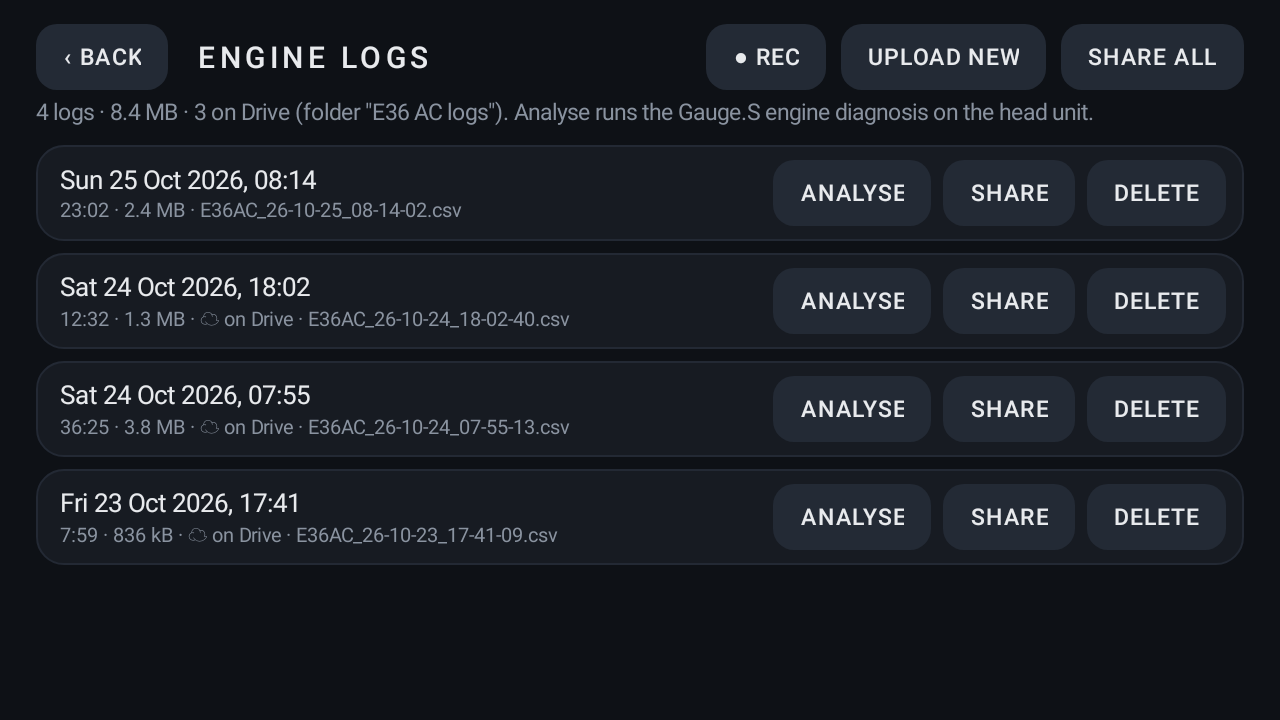
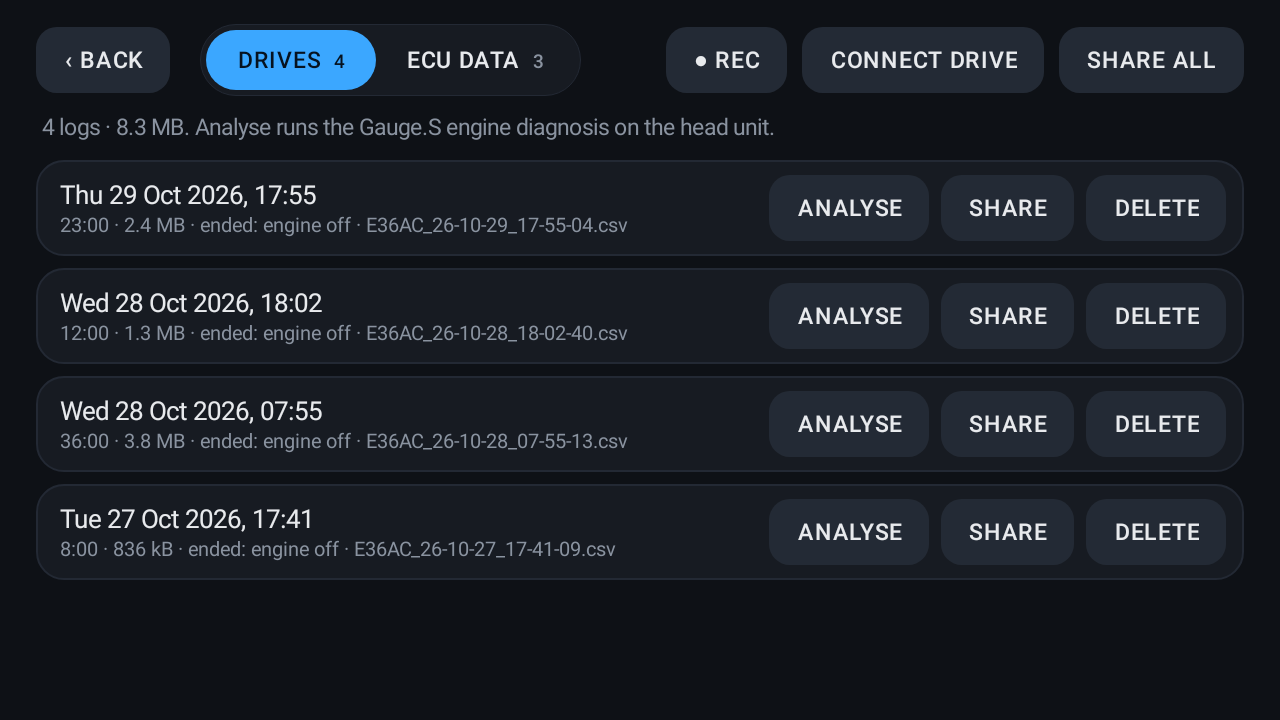
Site: an ECU data section with the new snapshot screens; logs screenshot with the tabs
A new section (and nav link) shows the visual snapshot page (fault cards,
adaptation bars, misfires per cylinder, status pills) and the ECU data list;
the logs section keeps a short pointer to it. The logs screenshot is redone
with the DRIVES / ECU DATA tabs. The setup section moves back to image-left
so the sections still alternate.

Claude-Session: https://claude.ai/code/session_01G59v9o1wYjXWDqe2xnvvVn

diff --git a/index.html b/index.html
@@ -138,6 +138,7 @@
             <a href="#climate">Climate</a>
             <a href="#gauges">Gauges</a>
             <a href="#logs">Logs</a>
+            <a href="#ecu">ECU data</a>
             <a href="#hardware">Module</a>
             <a href="#get">Get it</a>
         </nav>
@@ -239,7 +240,7 @@
 <section id="logs">
     <div class="wrap split">
         <div class="media stack">
-            <img class="shot" src="screenshots/logs.png" alt="Engine logs list with Analyse, Share and Delete, and Google Drive upload state" width="1280" height="720" loading="lazy">
+            <img class="shot" src="screenshots/logs.png" alt="Engine logs list on the Drives tab, with Analyse, Share and Delete for each drive" width="1280" height="720" loading="lazy">
             <img class="shot" src="screenshots/analysis.png" alt="Engine diagnosis of a log: a vacuum leak finding with evidence and suggested checks" width="1280" height="720" loading="lazy">
         </div>
         <div>
@@ -250,8 +251,7 @@
                 <li><strong>Auto-record:</strong> a log starts with the engine and ends 15 s after it stops. LOGS in the top bar shows <code>● REC</code> while recording.</li>
                 <li><strong>Gauge.S format:</strong> the columns use the names the Gauge.S log analyser understands, and the AC state comes along.</li>
                 <li><strong>Analyse:</strong> runs the Gauge.S engine diagnosis on the head unit, offline. You get likely faults ranked worst first with their evidence, suggested checks, and the time spent in each operating state.</li>
-                <li><strong>ECU data:</strong> <em>Fault codes → Read ECU data</em> saves, dated, what the MS43 has stored: the faults, the learned fuel adaptations for both banks, the learned idle air (in neutral, in gear, with the AC on), the octane adaptation, the misfire counters and rough running per cylinder, and whether it sees the AC request, the compressor relay, closed-loop fuelling and the purge valve. It asks the way INPA does, so it works on any MS43 software. The diagnosis uses the snapshot taken nearest each drive: misfires by cylinder, even before the ECU has stored a fault, codes that back up a finding, the idle air behind a rough idle, and a leak the ECU has already learned around.</li>
-                <li><strong>Fault details:</strong> <em>Fault codes → Load MS430DS0.prg</em> reads BMW's MS43 file from your own INPA install once. From then on each fault shows its type (short to ground, open circuit…) and the engine speed, load or temperature it was stored at, as INPA shows them. The app keeps only the fault tables from the file; BMW's file isn't included with the app.</li>
+                <li><strong>ECU data:</strong> the faults and learned values the ECU had stored, saved next to the drives (see <a href="#ecu">ECU data</a> below). The diagnosis uses the snapshot taken nearest each drive.</li>
                 <li><strong>Earlier drives:</strong> each analysis is kept as a few numbers, and later drives are compared with them, so idle trim creeping or idle speed changing shows up before any fixed limit trips.</li>
                 <li><strong>Google Drive:</strong> connect once, and finished logs upload to an “Bimmer Cockpit logs” folder. The app can only see the files it created.</li>
                 <li><strong>Share:</strong> send a log or a diagnosis report to any app.</li>
@@ -261,8 +261,32 @@
     </div>
 </section>
 
-<section id="setup">
+<section id="ecu">
     <div class="wrap split flip">
+        <div class="media stack">
+            <img class="shot" src="screenshots/ecu-data.png" alt="An ECU snapshot: stored faults as cards with the code, present now, how often seen, the fault type and the engine speed and load when stored; fuel adaptation bars per bank, learned idle air, octane adaptation, misfire counts per cylinder and on/off status pills" width="1280" height="1396" loading="lazy">
+            <img class="shot" src="screenshots/ecu-list.png" alt="The ECU data tab: saved snapshots with a red, amber or green dot, the number of faults and the DME part number" width="1280" height="720" loading="lazy">
+        </div>
+        <div>
+            <div class="label">ECU data</div>
+            <h2>What the ECU has stored, at a glance</h2>
+            <p class="sub"><em>Fault codes → Read ECU data</em> takes a dated snapshot of the MS43, with the Gauge S off. It asks the way INPA does, so it works on any MS43 software.</p>
+            <ul>
+                <li><strong>Faults:</strong> one card per stored fault, with its BMW code, whether it is present now and how often it was seen. With the fault details loaded you also get its type (short to ground, open circuit…) and the engine speed and load when it was stored.</li>
+                <li><strong>Fuel adaptation:</strong> what the ECU has learned to add or take away per bank, at idle and at every load. Green is normal, amber is worth watching, red is near the limit, using the same limits as the diagnosis.</li>
+                <li><strong>Idle air and octane:</strong> the learned idle air in neutral, in gear and with the AC on, and how far the ECU has moved toward its low-octane ignition map.</li>
+                <li><strong>Misfires per cylinder:</strong> the ECU's own counters, so one bad coil, plug or injector stands out before a fault is stored.</li>
+                <li><strong>What the MS43 saw:</strong> AC request, compressor, purge valve, closed-loop fuelling per bank and the warning lamps, on or off.</li>
+                <li><strong>Kept for later:</strong> every snapshot is listed under <em>Logs → ECU data</em>, newest first, with a dot that shows red for a fault present now, amber for stored faults and green for none. Snapshots upload to Google Drive with the logs.</li>
+                <li><strong>Fault details:</strong> <em>Fault codes → Load MS430DS0.prg</em> reads BMW's MS43 file from your own INPA install once. The app keeps only the fault tables from the file; BMW's file isn't included with the app.</li>
+            </ul>
+            <p class="note">The snapshot shown here is sample data, not a real car.</p>
+        </div>
+    </div>
+</section>
+
+<section id="setup">
+    <div class="wrap split">
         <div class="media">
             <img class="shot" src="screenshots/settings.png" alt="Settings: AC pressure cut-out, engine logs, Google Drive and module firmware" width="760" height="720" loading="lazy" style="max-width:520px;margin:0 auto">
         </div>
